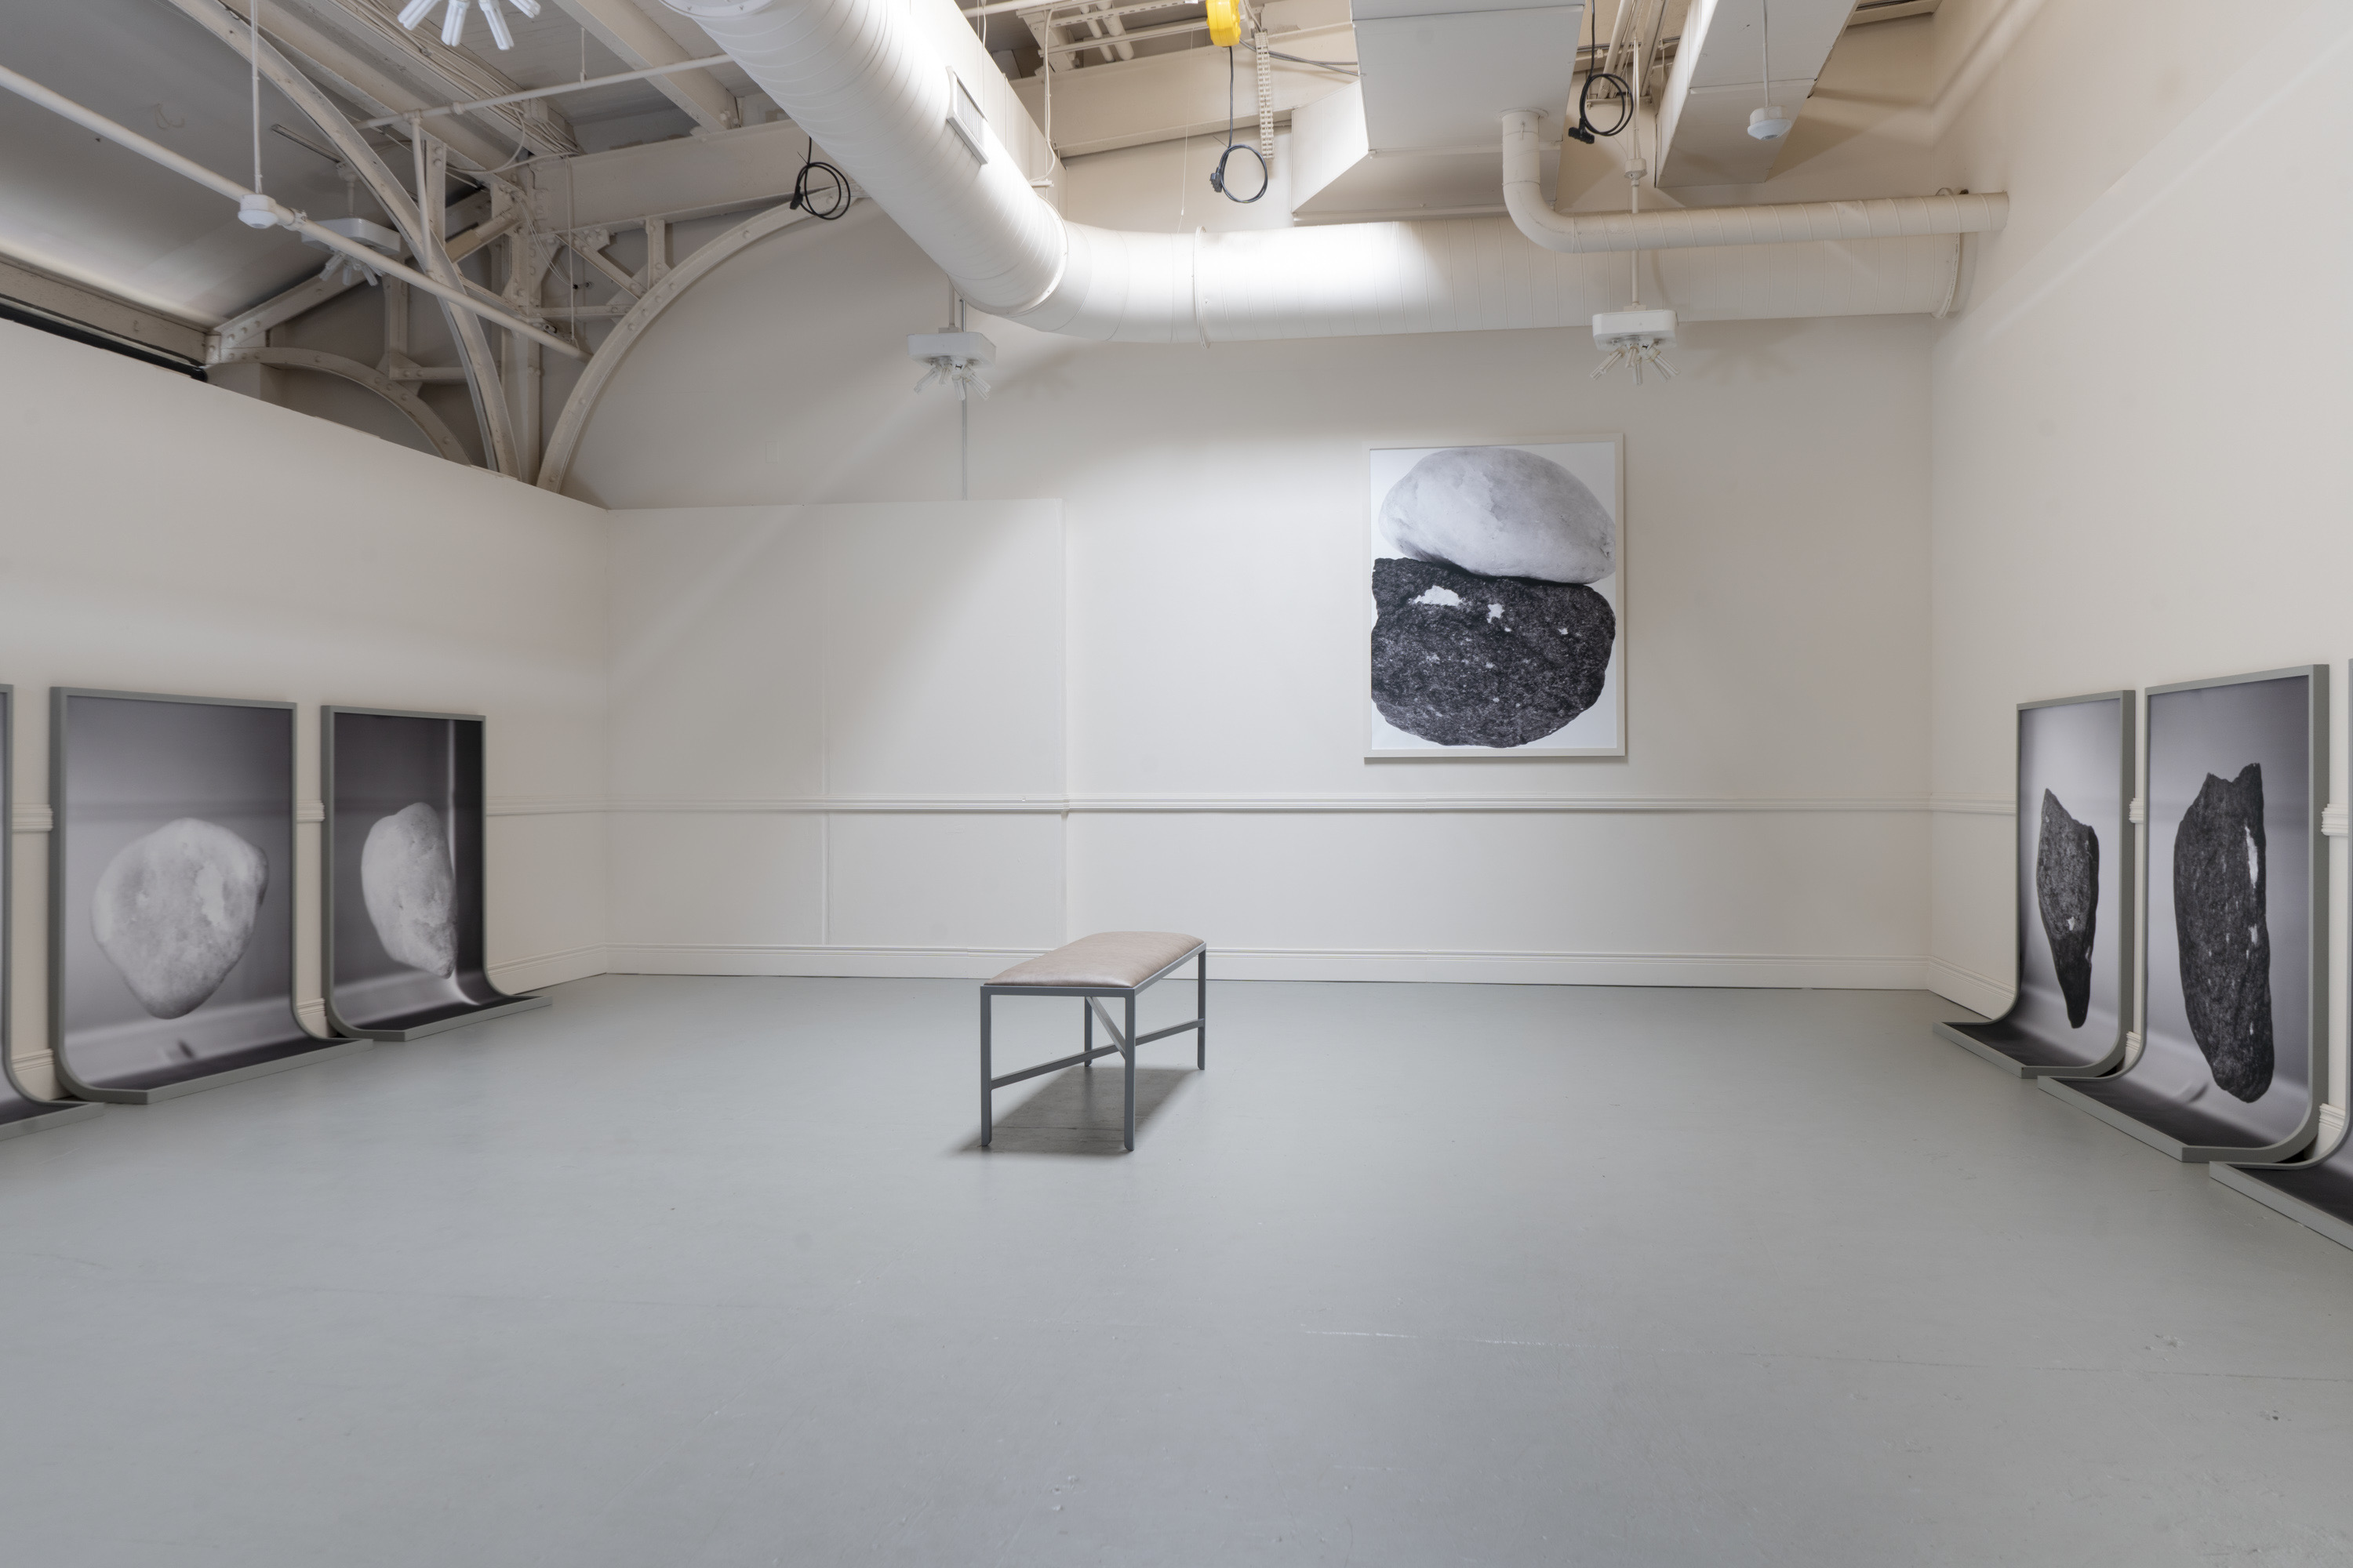
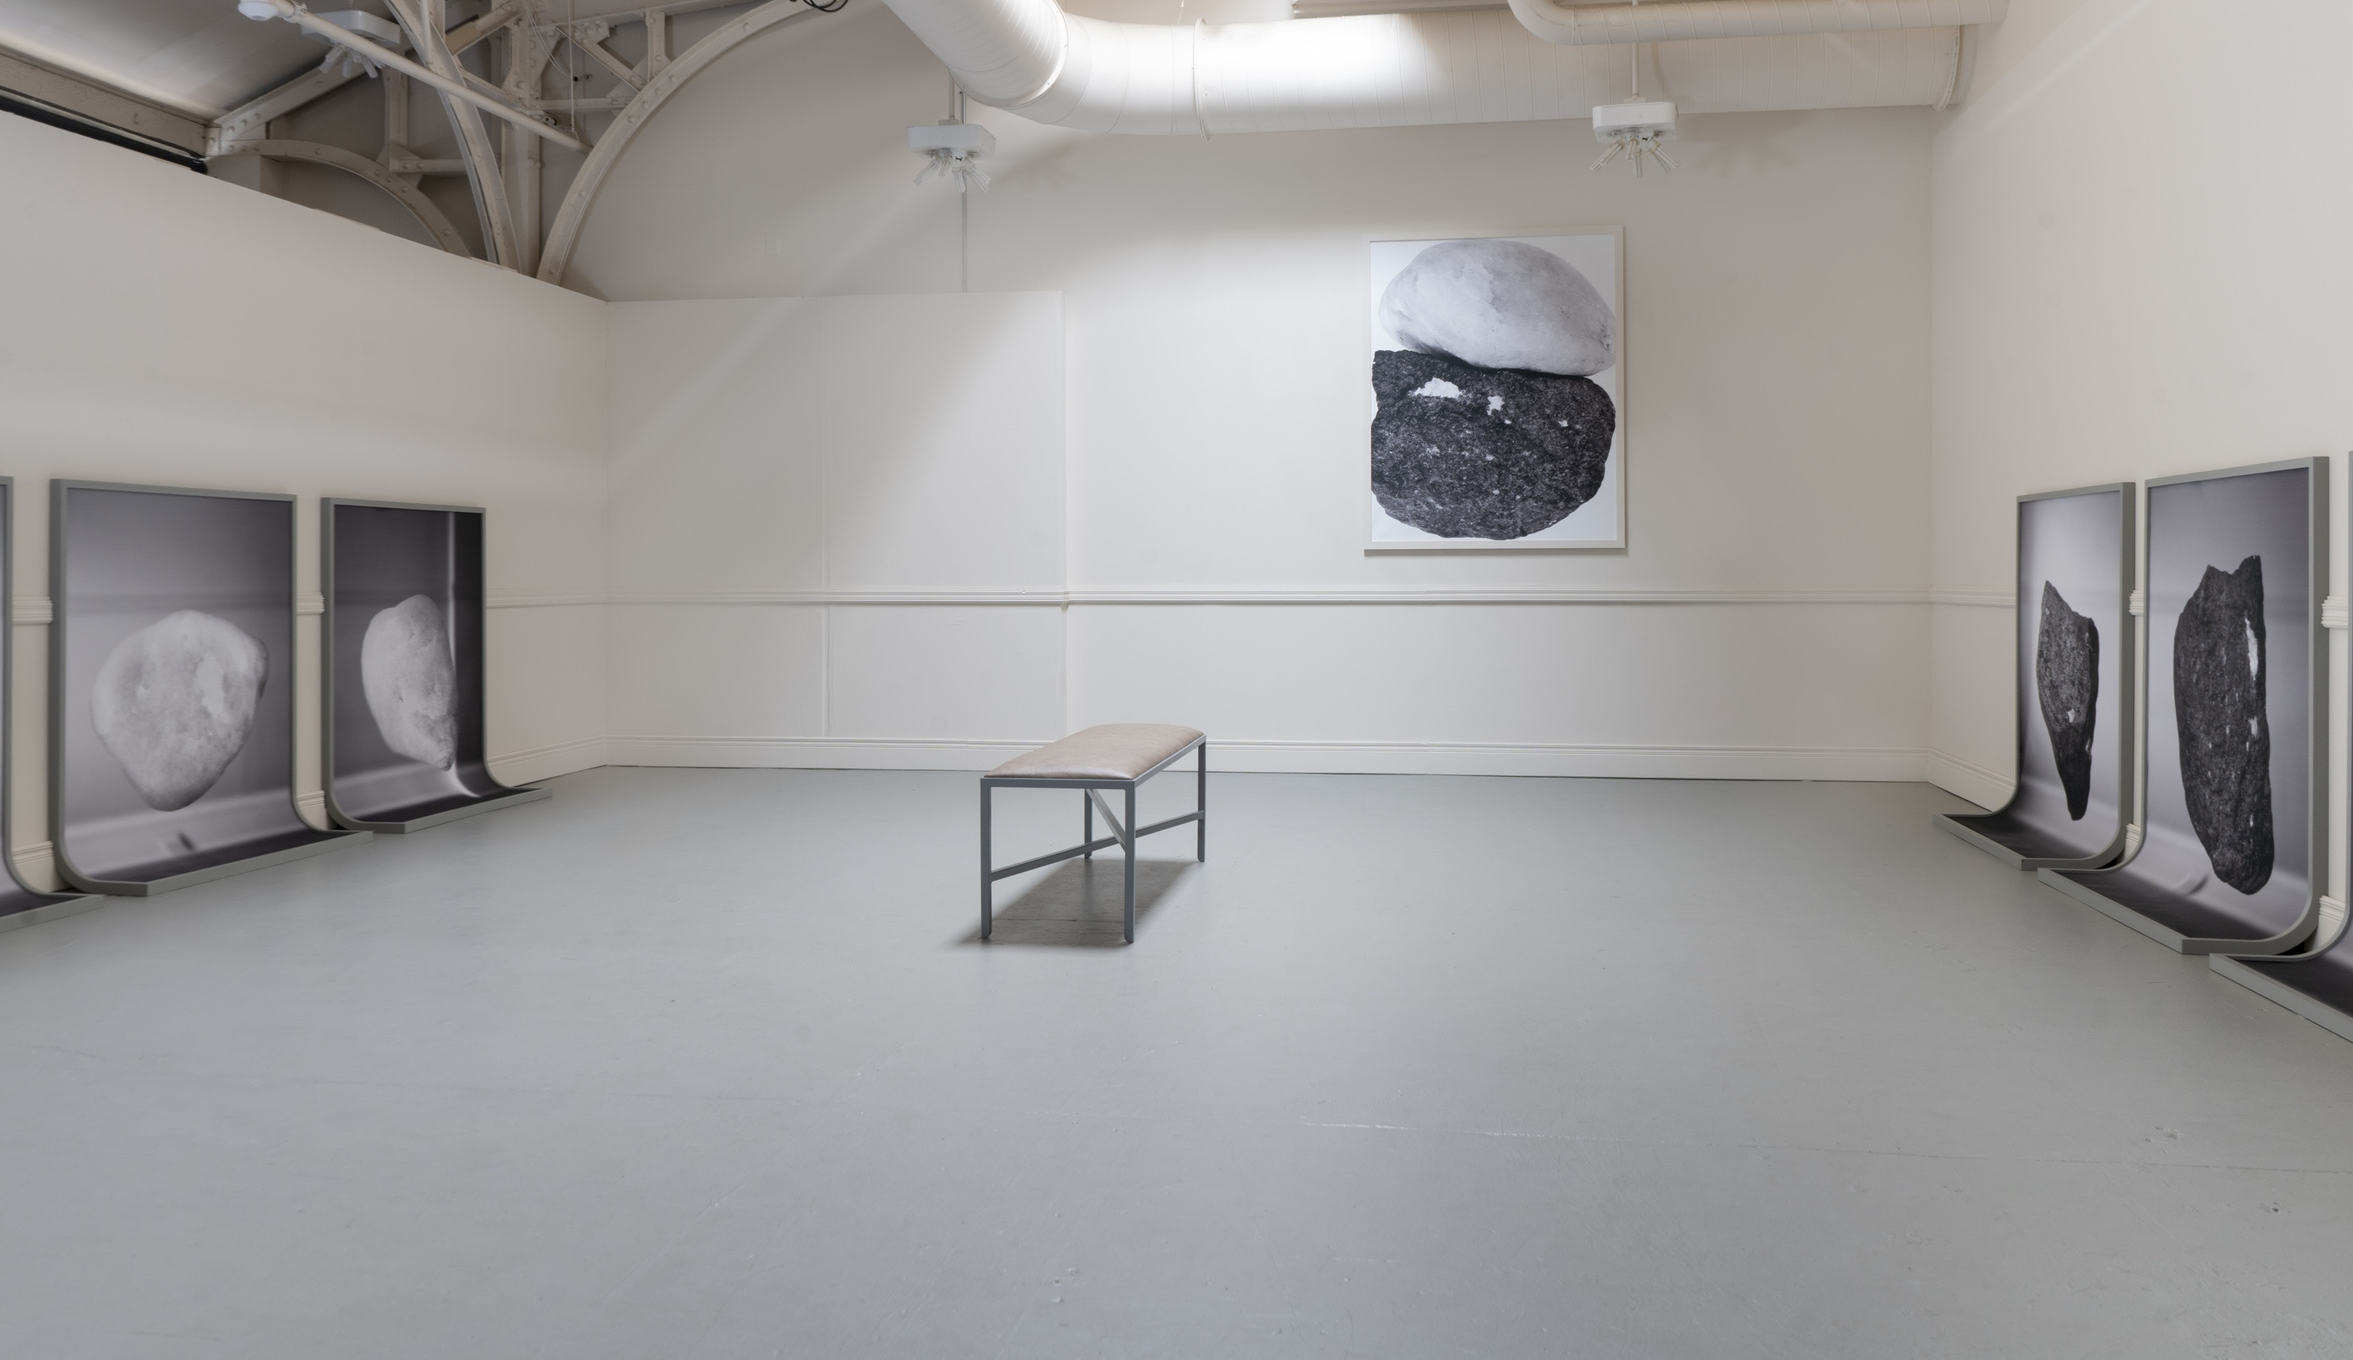
little updtaes

Changed region(s): [[0.0, 0.0, 1.0, 0.7781], [0.651, 0.6225, 0.775, 0.6536]]

diff --git a/work/livingrecords/index.html b/work/livingrecords/index.html
@@ -34,20 +34,30 @@ title: Living Records
        
       </p>
 
-<img src="/docs/assets/LivingRecords_08.jpg"
-       alt="Living Records refridgerated pedestal installation."
-       width="30%"
+<figure class="figurelivingrecords">
+   <img src="/docs/assets/LivingRecords_08.jpg"
+       alt="Framed Hilda G Carpenter Screenshot"
+       width="100%"
        height="auto">
+   <figcaption>A screenshot of Hilda G. Carpenter, printed at 300dpi, framed in a 20"x24" matte.</figcaption>
+</figure>
 
-<img src="/docs/assets/LivingRecords_01.jpg"
+<figure class="figurelivingrecords">
+       <img src="/docs/assets/LivingRecords_01.jpg"
        alt="Living Records refridgerated pedestal installation."
-       width="30%"
+       width="100%"
        height="auto">
+       <figcaption>Custom refridgerated pedestal frame housing a 20"x24" petri dish. </figcaption>
+</figure>
+
+<figure class="figurelivingrecords">
 
 <img src="/docs/assets/LivingRecords_01-2.jpg"
        alt="Living Records refridgerated pedestal installation. View of petri dish, exposure unit, and exposure mask"
-       width="30%"
+       width="100%"
        height="auto">
+      <figcaption>Upscaled bacterial print of Hilda G. Carpenter's portrait screenshot. Black exposure mask to create the image with the photo reactive E. coli.</figcaption>
+</figure>
 
          <br><br>
 

diff --git a/work/livingwithit/index.html b/work/livingwithit/index.html
@@ -35,9 +35,9 @@ Between the late 19th and mid-20th centuries, American landscape photographers w
 continent comprehensible by proliferating the ideology of Manifest Destiny with 8x10-inch sheets of film. They
 compressed the sublime into legible, portable images, which transformed the landscape into something
 collectible, displayable, and ultimately controllable.
-<br>
+<br><br>
 Davis inverts this historical gesture.
-<br>
+<br><br>
 In these compositions, rocks collected from both the Eastern and Western United States are placed atop scans
 of large format, 4x5-inch, sheet film—film that records photographs of interior walls. Through an exaggerated
 rescaling of the smallest natural elements, the work returns the landscape to the home, not as a site of
@@ -65,7 +65,7 @@ Within this counter-landscape, geography is not subdued—it is lived.
 
     <p class="body"><strong>Exhibition History</strong></p>
 
-      <ul class="work-title">
+      <ul class="body">
          
 			<li><a href="https://www.goyacontemporary.com/exhibitions/liam-davis#tab:slideshow" target="_blank">Living With It, GOYA Contemporary, Baltimore, MD, 2025</a></li>
          <li>Living With It, MICA Artwalk, Baltimore, MD, 2025</li>

diff --git a/work/timemachine/index.html b/work/timemachine/index.html
@@ -18,15 +18,15 @@ title: closer too
             <br>
   <img src="/docs/assets/timemachine.jpg"
        alt="soy wood composite case"
-       
-       height="520">
+       wdith="75%"
+       height="auto">
        <br>
  
    
 
-    <h2 class="body"><strong>Related Research</strong></h2>
+    <p><class="body"><strong>Related Research</strong></p> 
 
-      <ul class="work-title">
+      <ul class="body">
           <li><a href="/research/woodmold/">Relatively Practical Applications of Castable Wood Composites with Soy Based Adhesives for Household (Art) Objects</a></li>
       </ul>
   <!-- 

diff --git a/work/sitting/index.html b/work/sitting/index.html
@@ -13,7 +13,7 @@ title: rocks
      18 x 18 x 23 inches approximately 
     <br>
     2023
-    
+
   </p>
 
 <br>
@@ -39,7 +39,7 @@ title: rocks
 
     <p class="body"><strong>Exhibition History</strong></p>
 
-      <ul class="work-title">
+      <ul class="body">
           <li><a href="/work/exhibitions/gently">gently we exist (group), 2023</a></li>
           <li>MICA Juried Undergraduate Exhibition (group), 2023</li>
       </ul>

diff --git a/css/main.css b/css/main.css
@@ -107,6 +107,10 @@ h1 {
 
 }
 
+.body ul {
+    line-height: 2em;
+}
+
 
 
 .imgbody  {
@@ -287,6 +291,20 @@ img {
 }
 
 .caption {
+    font-family: "publicsans";
+    font-size: 1em;
+    line-height: 1em;
+    color: black;
+    padding-right: 10%;
+    padding-left: 4%;
+}
+
+.figurelivingrecords {
+    width: 27%;
+    float: left;
+}
+
+figcaption {
     font-family: "publicsans";
     font-size: 1em;
     line-height: 1em;

diff --git a/work/staid/index.html b/work/staid/index.html
@@ -36,9 +36,9 @@ title: Staid
 
 
 
-    <p class="body"><strong>Exhbition History</strong></p>
+    <p class="body"><strong>Exhibition History</strong></p>
 
-      <ul class="work-title">
+      <ul class="body">
           <li><a href="https://www.area405.com/pitted" target="_blank">Pitted: Home at the Heart of an Empire, AREA 405, Baltimore, MD, 2025</a></li>
       </ul>
 
